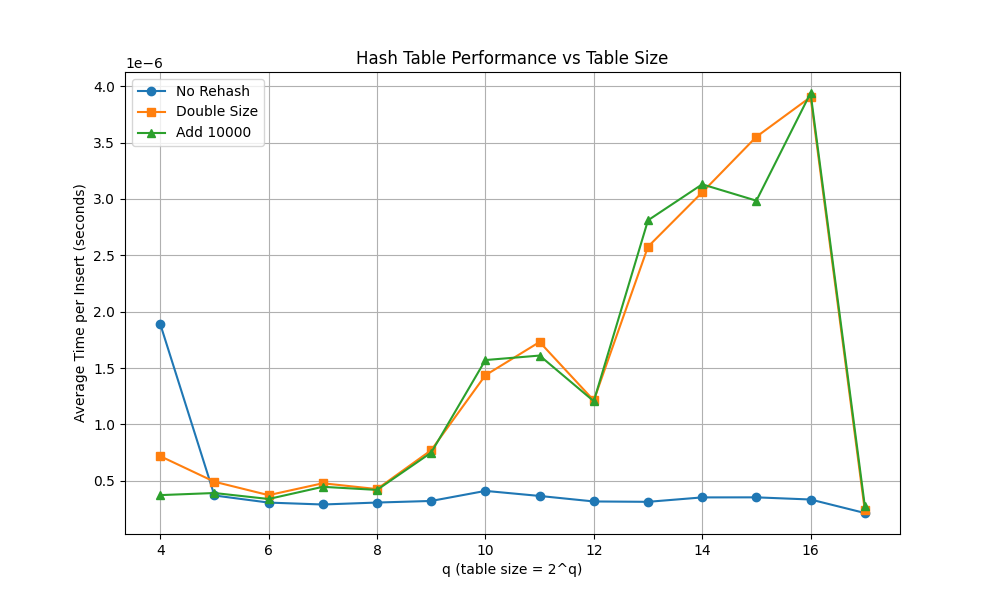
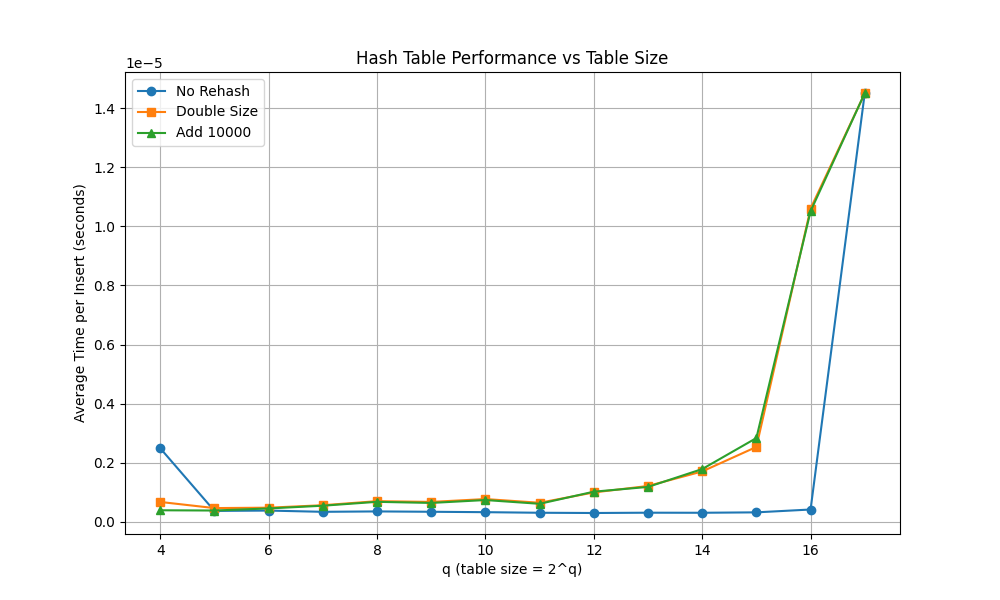
update

diff --git a/timing_analysis.py b/timing_analysis.py
@@ -5,83 +5,62 @@ from data_generator import DataGenerator
 
 class TimingAnalysis:
     def __init__(self):
-        """Initialize the timing analysis with data generator"""
         self.data_gen = DataGenerator()
-        _, self.add_values, self.check_values = self.data_gen.generate_unique_strings()
+        self.whole_list, self.add_values, self.check_values = self.data_gen.generate_dataset()
 
-    def time_rehash_strategies(self, q_values=range(4, 18)):
-        """
-        Time the performance of different rehashing strategies
-        """
-        results = {
-            'no_rehash': [],
-            'double': [],
-            'add_10000': []
-        }
-
+    def time_rehash_strategies(self, q_values=range(4, 18)):  # Changed from time_rehash_cost
+        results = {'no_rehash': [], 'double': [], 'add_10000': []}
+        
         for q in q_values:
             size = 2**q
             num_values = int((3/4) * size - 1)
-            values_to_insert = self.add_values[:num_values]
-
-            # No rehash (large initial size)
-            ht = HashTable(2**17, 0.75, 1)
-            start = time.perf_counter()
-            for value in values_to_insert:
-                ht.insert(value)
-            results['no_rehash'].append((time.perf_counter() - start) / num_values)
-
-            # Double strategy
-            ht = HashTable(2**q, 0.75, 1)
-            start = time.perf_counter()
-            for value in values_to_insert:
-                ht.insert(value)
-            results['double'].append((time.perf_counter() - start) / num_values)
-
-            # Add 10000 strategy
-            ht = HashTable(2**q, 0.75, 2)
-            start = time.perf_counter()
-            for value in values_to_insert:
-                ht.insert(value)
-            results['add_10000'].append((time.perf_counter() - start) / num_values)
-
+            values = self.whole_list[:num_values]
+            
+            # Time each strategy
+            for strategy, config in [
+                ('no_rehash', (2**17, 0.75, 1)),
+                ('double', (2**q, 0.75, 1)),
+                ('add_10000', (2**q, 0.75, 2))
+            ]:
+                ht = HashTable(*config)
+                start = time.perf_counter()
+                for val in values:
+                    ht.insert(val)
+                elapsed = time.perf_counter() - start
+                results[strategy].append(elapsed / num_values)
+        
+        self._save_results(results, 'rehash_timing.txt')
         return results
 
-    def time_load_factors(self, table_size=65536):
-        """
-        Time performance vs load factor
-        """
+    def time_load_factors(self):
         load_factors = np.linspace(0.1, 0.99, 30)
-        results = {
-            'successful': [],
-            'unsuccessful': []
-        }
-
-        for load_factor in load_factors:
-            ht = HashTable(table_size, 1.0, 1)  # Using load_factor=1.0 to prevent resizing
-            num_to_insert = int(table_size * load_factor)
+        results = {'successful': [], 'unsuccessful': []}
+        
+        for lf in load_factors:
+            # Setup hash table
+            ht = HashTable(65536, 1.0, 1)
+            num_values = int(65536 * lf)
             
-            # Insert values up to desired load factor
-            for i in range(num_to_insert):
+            # Insert values
+            for i in range(num_values):
                 ht.insert(self.add_values[i])
-
+            
             # Time successful searches
             start = time.perf_counter()
-            for i in range(num_to_insert):
+            for i in range(num_values):
                 ht.find(self.add_values[i])
-            succ_time = (time.perf_counter() - start) / num_to_insert
-            results['successful'].append(succ_time)
-
+            results['successful'].append((time.perf_counter() - start) / num_values)
+            
             # Time unsuccessful searches
             start = time.perf_counter()
-            for i in range(num_to_insert):
+            for i in range(num_values):
                 ht.find(self.check_values[i])
-            unsucc_time = (time.perf_counter() - start) / num_to_insert
-            results['unsuccessful'].append(unsucc_time)
-
+            results['unsuccessful'].append((time.perf_counter() - start) / num_values)
+        
+        self._save_results(results, 'load_factor_timing.txt')
         return load_factors, results
 
-    def save_results(self, results, filename):
+    def _save_results(self, results, filename):
         """Save timing results to a file"""
         with open(filename, 'w') as f:
             for strategy, times in results.items():

diff --git a/test_hash_table.py b/test_hash_table.py
@@ -2,56 +2,41 @@ import unittest
 from hash_table import HashTable
 
 class TestHashTable(unittest.TestCase):
-    def test_basic_operations(self):
-        # Test 1: Add 5 strings and verify
+    def test_basic_functionality(self):
+        """Test case 1: Add 5 strings, verify presence/absence"""
         ht = HashTable(16, 0.75, 1)
         test_strings = ["test1", "test2", "test3", "test4", "test5"]
         other_strings = ["other1", "other2", "other3", "other4", "other5"]
         
         for s in test_strings:
             ht.insert(s)
-        
-        # Verify all test strings are found
+            
         for s in test_strings:
             self.assertTrue(ht.find(s))
-            
-        # Verify other strings are not found
         for s in other_strings:
             self.assertFalse(ht.find(s))
 
-    def test_resize_double_strategy(self):
+    def test_resize_double(self):
+        """Test cases 2 & 3: Verify resize behavior with doubling strategy"""
         ht = HashTable(16, 0.75, 1)
-        initial_size = ht.size
         
-        # Add 23 values (should trigger one resize)
+        # Add 23 values
         for i in range(23):
-            ht.insert(f"test{i}")
-            
-        # Verify size doubled once
-        self.assertEqual(ht.size, initial_size * 2)
+            ht.insert(f"value{i}")
+        self.assertEqual(ht.size, 32)  # Verify one resize occurred
         
-        # Add 24th value (should trigger second resize)
-        ht.insert("test24")
-        self.assertEqual(ht.size, initial_size * 4)
-        
-        # Verify all values can be found
-        for i in range(24):
-            self.assertTrue(ht.find(f"test{i}"))
+        # Add 24th value
+        ht.insert("value23")
+        self.assertEqual(ht.size, 64)  # Verify second resize occurred
 
-    def test_resize_add_strategy(self):
+    def test_resize_add(self):
+        """Test case 4: Verify resize behavior with add strategy"""
         ht = HashTable(16, 0.75, 2)
-        initial_size = ht.size
         
-        # Add 23 values (should trigger one resize)
+        # Add 23 values
         for i in range(23):
-            ht.insert(f"test{i}")
-            
-        # Verify size increased by 10000
-        self.assertEqual(ht.size, initial_size + 10000)
-        
-        # Verify all values can be found
-        for i in range(23):
-            self.assertTrue(ht.find(f"test{i}"))
+            ht.insert(f"value{i}")
+        self.assertEqual(ht.size, 10016)  # Verify correct size after resize
 
 if __name__ == '__main__':
     unittest.main()

diff --git a/data_generator.py b/data_generator.py
@@ -2,18 +2,16 @@ import random
 
 class DataGenerator:
     @staticmethod
-    def generate_unique_strings(size=131072):
+    def generate_dataset(size=131072):
         """Generate unique 8-digit strings"""
         numbers = set()
         while len(numbers) < size:
-            num = str(random.randint(10000000, 99999999))
+            num = f"{random.randint(10000000, 99999999)}"
             numbers.add(num)
         
         numbers = list(numbers)
-        # Split into add and check values
-        add_values = numbers[:size//2]
-        check_values = numbers[size//2:]
-        return numbers, add_values, check_values
+        mid = size // 2
+        return numbers, numbers[:mid], numbers[mid:]
 
     @staticmethod
     def verify_unique(values):

diff --git a/main.py b/main.py
@@ -7,7 +7,7 @@ def main():
     
     # Run rehash timing analysis
     q_values = range(4, 18)
-    rehash_results = timer.time_rehash_strategies(q_values)
+    rehash_results = timer.time_rehash_strategies(q_values)  # This matches the method name now
     
     # Run load factor timing analysis
     load_factors, load_results = timer.time_load_factors()
